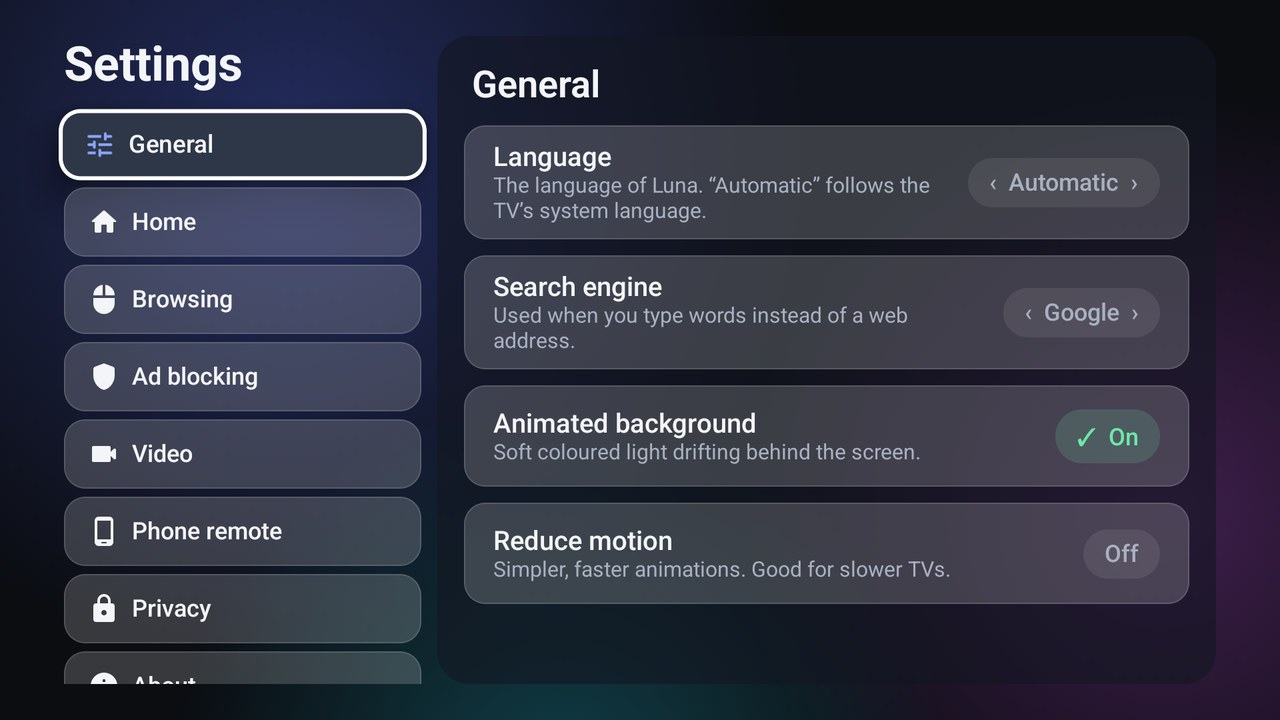
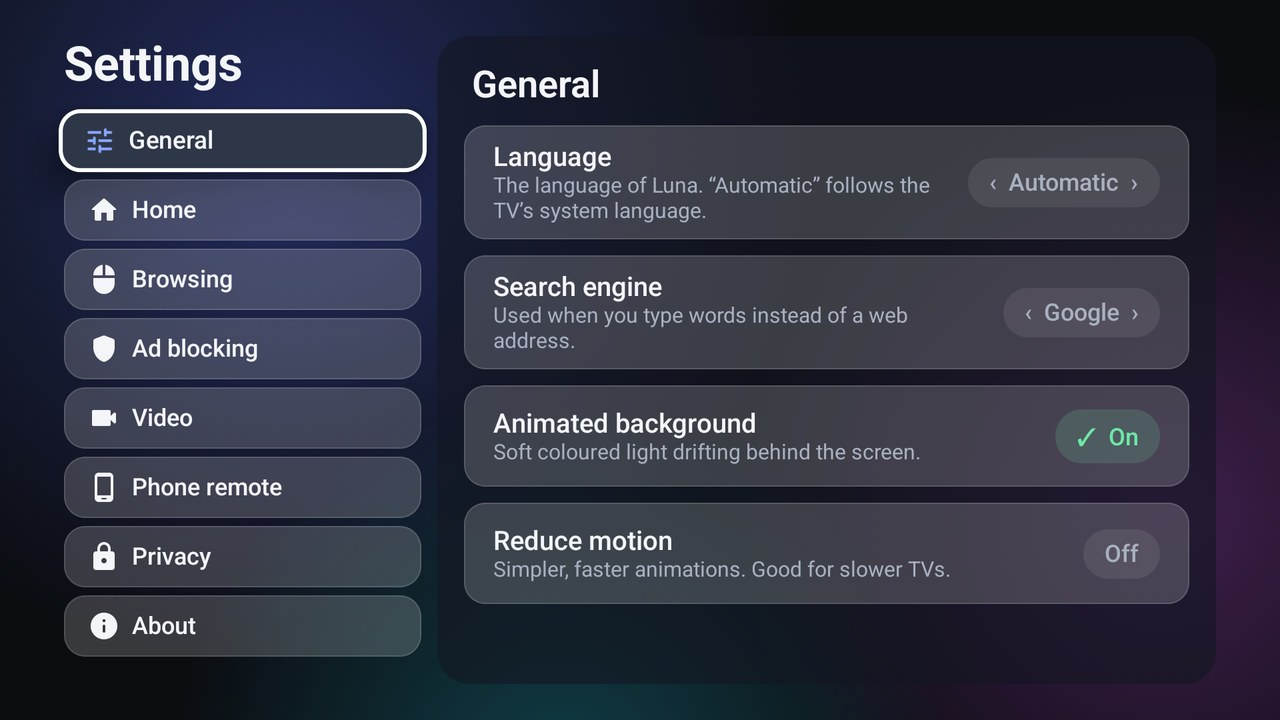
Release 0.4.1: README screenshots, version bump, changelog

Changed region(s): [[0.0312, 0.1833, 0.3438, 0.9472]]

diff --git a/README.md b/README.md
@@ -21,7 +21,7 @@ an on-screen pointer you steer with the D-pad, one-press access to everything, v
 **Play / Pause / Left / Right**, a built-in ad and pop-up blocker, and a home screen that feels like a streaming app.
 
 > **Status:** early (0.x) but daily-driven on a real TV. Latest release:
-> [**v0.4.0**](https://github.com/newhalo/luna-browser/releases/latest) — tabs, per-site settings, a touchpad on the
+> [**v0.4.1**](https://github.com/newhalo/luna-browser/releases/latest) — tabs, per-site settings, a touchpad on the
 > phone remote, video positions remembered outside fullscreen, and ad-block rules that update without a release.
 
 ## Features
@@ -39,6 +39,7 @@ an on-screen pointer you steer with the D-pad, one-press access to everything, v
   stopped, and says so. Ads or another episode on the same page are never seeked.
 - **Tabs** — up to 8 tabs with a switcher made of the same 16:9 cards as Home. Only the most recent few stay alive
   (two on low-end TVs); the rest are frozen to save memory and reload when you return. Tabs survive restarts.
+- **Your layout** — thumbnail size (large / medium / small) for Home, and a History page that is a list or a grid.
 - **Per-site settings** — the toolbar's *This site* button sets desktop mode, text size, ad blocking and pointer mode
   for one site only.
 - **Your phone as a remote** — scan the QR code in *Settings → Phone remote* and your phone becomes a full remote
@@ -78,6 +79,8 @@ an on-screen pointer you steer with the D-pad, one-press access to everything, v
 | Pointer speed, desktop sites, page text size | Clear errors with one-press recovery |
 | ![Tab switcher](docs/screenshots/12-tabs.jpg) | ![Per-site settings](docs/screenshots/13-site-settings.jpg) |
 | **Tabs:** the same 16:9 cards as Home; **Down** for close / new tab | **Site** button: desktop mode, text size, ad blocking and pointer mode for one site only |
+| ![Home with small thumbnails](docs/screenshots/14-home-small-tiles.jpg) | ![History as a grid](docs/screenshots/15-history-grid.jpg) |
+| **Thumbnail size** (Settings → Home): small tiles fit more on Home | **History** as a list or a grid, one button to switch |
 
 ### Your phone as a remote
 

diff --git a/CHANGELOG.md b/CHANGELOG.md
@@ -6,6 +6,16 @@ The format follows [Keep a Changelog](https://keepachangelog.com/en/1.1.0/) and 
 
 ## [Unreleased]
 
+## [0.4.1] - 2026-11-15
+
+### Added
+- **History as a grid**: a button switches the History page between the list and a grid of 16:9 cards (remembered).
+- **Thumbnail size** (Settings → Home): large, medium or small tiles on Home and in the History grid, so more fit on screen.
+
+### Fixed
+- Tab switcher: the row of cards no longer stays scrolled after a tab is closed.
+- Settings: the title no longer scrolls out of view; the category list fits without scrolling.
+
 ## [0.4.0] - 2026-11-15
 
 ### Added
@@ -106,7 +116,8 @@ The format follows [Keep a Changelog](https://keepachangelog.com/en/1.1.0/) and 
 - First version: Jetpack Compose TV UI on the system WebView, virtual cursor, floating toolbar, fullscreen
   video controls, host-based ad blocking, settings, history and favourites.
 
-[Unreleased]: https://github.com/newhalo/luna-browser/compare/v0.4.0...HEAD
+[Unreleased]: https://github.com/newhalo/luna-browser/compare/v0.4.1...HEAD
+[0.4.1]: https://github.com/newhalo/luna-browser/compare/v0.4.0...v0.4.1
 [0.4.0]: https://github.com/newhalo/luna-browser/compare/v0.3.1...v0.4.0
 [0.3.1]: https://github.com/newhalo/luna-browser/compare/v0.3.0...v0.3.1
 [0.3.0]: https://github.com/newhalo/luna-browser/releases/tag/v0.3.0
